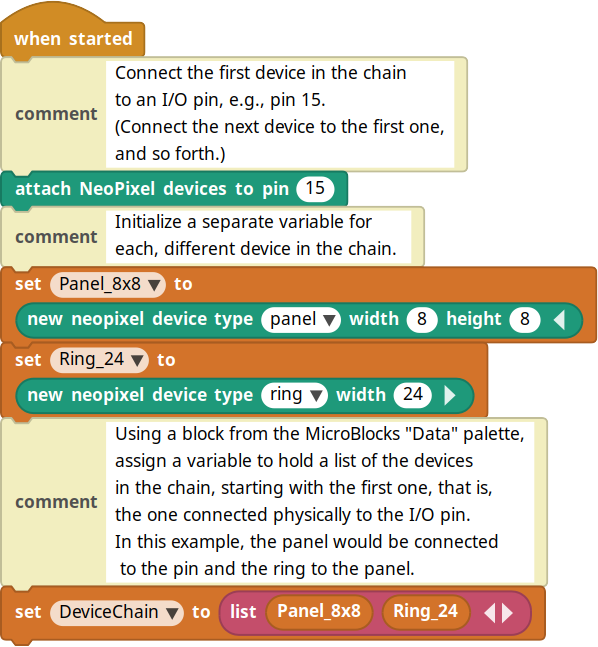
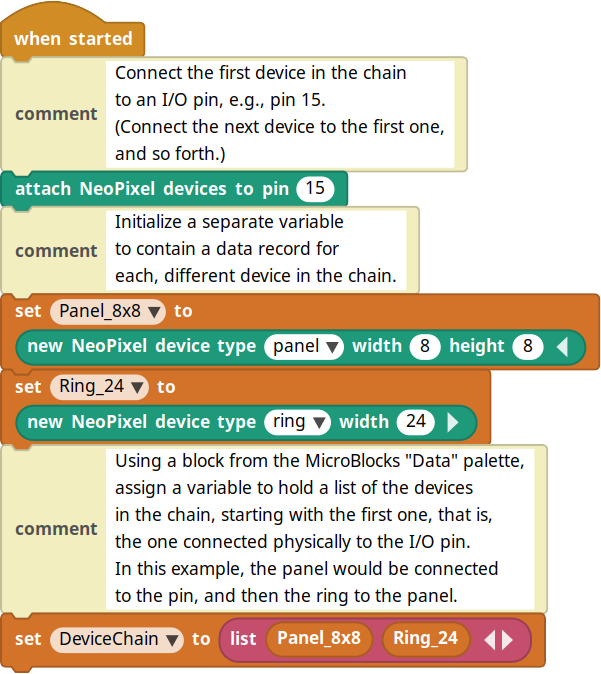
revise images, examples and README for version 4-2

diff --git a/README.md b/README.md
@@ -1,7 +1,7 @@
-# Multiple-Neopixel-Devices-for-MicroBlocks
+# Multiple-NeoPixel-Devices-for-MicroBlocks
 Daisy-chain several NeoPixel devices in series and control each device independently by name.
 
-*How nice would it be to control two or three NeoPixel rings or panels, each independently from the others, using just one microcontroller?*
+*How nice would it be to control two or more NeoPixel rings or panels, each independently from the others, using just one microcontroller?*
 
 [MicroBlocks](https://microblocks.fun/) is a graphical-blocks language for programming microcontrollers. Its creators have played significant roles in developing the [Scratch](https://scratch.mit.edu/) and [Snap!](https://snap.berkeley.edu/) languages at MIT and at Berkeley, respectively. They know how to write a language.
 
@@ -16,34 +16,106 @@ The *NeoPixel* and *NeoPanel* libraries that come included by default with Micro
 
 This project introduces a library that builds upon and extends those libraries to enable connecting and managing multiple NeoPixel devices.
 
+How many devices can be chained together this way? It depends on the number and sizes of the devices and on the available memory in the microcontroller. The example illustrated here, using two devices, was tested with a MakerPort.
+
 ## Contents
 * [Using the Library](#using-the-library)
-* [Programming Concepts](#programming-concepts-of-the-library)
 * [Blocks Reference](#blocks-reference)
 * [Examples](#examples)
+* [Programming Concepts](#programming-concepts-of-the-library)
 
 ## Using the Library
-Download the library onto your computer from this repository. Its name is [NeoPixelDevices_v4-1.ubl](NeoPixelDevices_4-1.ubl).
+
+### Installation
+Download the library onto your computer from this repository. Its name is [NeoPixelDevices_v4-2.ubl](NeoPixelDevices_4-2.ubl).
 
 Launch MicroBlocks, using one of the methods explained on the [web site for the language](https://microblocks.fun).
 
 Follow instructions given on the web site to connect a microcontroller and to install the MicroBlocks firmware onto it.
 
+### Add the Library to a New Program
+
 Start a new program. Look for the *Add Library* link. Click it, choose Computer as the location of the library, navigate to where you stored this library, select it and click, **Open**.
 
-Look to see whether the standard *Neopixel* library also loads, automatically. If it does not, then take a moment to add that one also to your program.
+Look to see whether the standard *NeoPixel* library also loads, automatically. If it does not, then take a moment to add that one also to your program.
 
 At a minimum, you want your **Libraries** palette to include these two graphical objects:
 
 ![image showing two library objects on the screen](block_images/library_palettes.png)
 
-Having those two libraries installed, a typical way to initialize a MicroBlocks program for two or more NeoPixel devices could look like the example shown below as **Listing 1**.
+### First Steps
+
+Having those two libraries installed, a typical way to initialize a MicroBlocks program for a chain of two NeoPixel devices could look like the example shown below as **Listing 1**.
 
 ![Example of a MicroBlocks code listing](block_images/when_started.png)<br>**Listing 1:** Initialization
+
+Look more closely at these instructions. The first green block tells MicroBlocks to transmit signals to the chain of devices through I/O pin number 15.
+
+### Assign Names to Your Devices
+
+Create a variable name for each device in the chain. It is a good idea to choose descriptive names, because it makes the code easier for humans to read and to understand. 
+
+&ldquo;Panel_8x8&rdquo; and &ldquo;Ring_24&rdquo; in **Listing 1**, above, are variable names that would serve well for an 8-by-8 NeoPixel panel and for a 24-NeoPixel ring device, respectively. 
+
+The next, two blocks in **Listing 1** initialize each of the variables to contain a *data record* with distinct information specific to each device. 
+
+For example, the block shown below configures the data record stored in the &ldquo;Panel_8x8&rdquo; variable to work with a NeoPixel panel having eight rows of eight NeoPixels each: 
+
+![image of *set variable* block setting a variable to contain a panel device data record](block_images/set_variable_to_panel.png)
+
+Using named variables to contain different data records for each of the different devices enables a program to access the different devices individually, by name.
+
+In the discussion that follows, the phrase &ldquo;data record&rdquo; will refer to the variable that contains information about a particular NeoPixel device. 
+
+### Make a List of Your Devices
+
+After naming variables to represent the devices and preparing their initial data records, your program will need to create a list representing the entire chain of NeoPixel devices attached to the microcontroller.
+
+In **Listing 1**, a variable named *DeviceChain* is set to contain a list of the data records for the two devices, as follows:
+
+![image of block setting up a list of device data records](block_images/chain_list.png)
+
+The order is important. Notice that the record for *Panel_8x8* comes first. It is worth repeating the reason why, for emphasis.
+
+The first device record in the list should represent the physical device actually connected to the microcontroller. Other blocks in the library depend on things being set up this way. 
+
+For the arrangement shown in this example to work right, that physical 8x8 panel should be the device attached to the controller.
+
+Then the other data records follow in the same order as the devices follow outward from the controller in the physical chain.
+
+### Draw Onto a Named Device 
+
+All of the blocks for manipulating NeoPixels on a device take the corresponding variable name for the device as one of their inputs. 
+
+Using the name allows a program to change NeoPixels on one device without affecting the others.
+
+For example, building upon the initialization shown in **Listing 1**, draw a solid, green square in the center of the 8x8 NeoPixel panel.
+
+![image of a MicroBlocks code block for drawing a rectangle](block_images/example_rectangle.png)
+
+You can draw many times into a device without immediately affecting its visual presentation.
+
+Delaying the display empowers a program to prepare complex visual presentations without having each drawing step appear right away.
+
+### Display New Drawing Whenever You Choose
+
+When the program is ready to display changes, a single block updates all of devices in the chain by working through the list of device data records. For example, display the devices in the *DeviceChain* list:
+
+![image of a MicroBlocks program block to display the chain of devices](block_images/example_display.png)
 
 [back to Contents](#contents)
 
 ## Programming Concepts of the Library
+This part explains how the *NeoPixelDevices* library works. You can skip over it if you just want to play with the blocks. Come back later to learn more.
+
+But wait.
+
+Before you go, there is one thing you should know about those data records. Each record keeps track of several, different pieces of information about a NeoPixel device. The discussion that follows will refer to each of those pieces of information as a *field*. 
+
+For example, the number of NeoPixels in one &ldquo;row&rdquo; on a panel is stored in a field named *width*. The number of &ldquo;rows&rdquo; is kept in a field named *height*. If the device is a ring or a strand of NeoPixels, then it has only one &ldquo;row&rdquo;, and the *height* field would be set to 1 by default. 
+
+OK, you can safely [skip ahead to the blocks reference](#blocks-reference) now, if you wish.
+
 The *NeoPixelDevices* library takes advantage of how easy it is to use Lists in MicroBlocks.
 
 The List data type in MicroBlocks can contain an arbitrary (and changeable) number of data items, and the data items can be any of the types supported by MicroBlocks, including:
@@ -60,61 +132,15 @@ Each physical NeoPixel device is represented in this library by a list of five d
 4. a Boolean "lock" flag that can come in handy during concurrent processing, and finally 
 5. a list serving as a buffer to hold each and all of the individual NeoPixel color values for the WS2811 LEDs on the device.
 
-Importantly, keeping all five of these data items, or *fields*, together in a single list makes it possible to assign them as a group to a single, named variable. 
+Importantly, keeping all five of these data items, or *fields*, together in a single list makes it possible to assign them as a group, as a *data record* to be stored in a single, named variable. 
 
-In this way, a program is able to refer to the devices by name. It is similar to the concept of a *struct* or a *record* in some other languages, though not quite.
+Behind the scenes, the *NeoPixelDevices* library maintains a list of names for these different fields. It uses this list to figure out how to look up a value in a device data record by name. 
 
-The library provides a *new neopixel device* block which takes care of setting up all five of the *fields* in one of these device data lists.
+In this way, a program is able to use names for everything.  It can refer &mdash; by name &mdash; both to the devices and to the different fields of data for each device. It is similar to the concept of a *struct* or a *record* in some other languages, though not quite.
 
-Combining that block with the standard, built-in *set* block of MicroBlocks, the device data list can be stored in a named variable. 
+The library provides a *new NeoPixel device* block which takes care of setting up all five of the *fields* in one of these device data lists.
 
-**Listing 1** displays two examples of setting a named variable to contain a device data list. Here is another look at one of those instructions.
-
-![image of *set variable* block setting a variable to contain a panel device data record](block_images/set_variable_to_panel.png)
-
-The library enables a program to access these different data &ldquo;fields&rdquo; by name. 
-
-Staying with the **Listing 1** program example, a subroutine could initialize a local variable and set its value to the number of pixels on the NeoPixel ring named *Ring_24* this way:
-
-![image of a MicroBlocks program block](block_images/get_width.png)
-
-Remember that a MicroBlocks List can contain other lists as its data items. Using that convenient feature, the program can create a list representing the entire chain of NeoPixel devices attached to the microcontroller.
-
-In **Listing 1**, a variable named *DeviceChain* is set to contain a list of the data records for two devices. 
-
-Look at the block again,
-
-![image of block setting up a list of device data records](block_images/chain_list.png)
-
-The order is important. Notice that the record for *Panel_8x8* comes first. It is worth repeating the reason why, for emphasis.
-
-The first device record in the list should represent the physical device actually connected to the microcontroller. Other blocks in the library depend on things being set up this way. 
-
-For the arrangement shown in this example to work right, that physical 8x8 panel should be the device attached to the controller.
-
-Then the other data records follow in the same order as the devices follow outward from the controller in the physical chain.
-
----
-
-All of the blocks for manipulating NeoPixels on a device take the device record as one of their inputs. 
-
-Having a separate data record for each device in a chain makes it possible to draw on one device without affecting the others.
-
-For example, building upon the initialization shown in **Listing 1**, draw a solid, green square in the center of the 8x8 NeoPixel panel.
-
-![image of a MicroBlocks code block for drawing a rectangle](block_images/example_rectangle.png)
-
-You can draw many times into a device without affecting its visual presentation. 
-
-Most of these *NeoPixelDevices* blocks serve to prepare a device for viewing but do not display it. There is a good reason.
-
-Delaying the display empowers a program to prepare complex visual presentations without having each drawing step appear immediately.
-
-When the devices are ready for display, a single block updates all of them by working through the list of device data records. For example, display the devices in the *DeviceChain* list:
-
-![image of a MicroBlocks program block to display the chain of devices](block_images/example_display.png)
-
-[back to Contents](#contents)
+Combining that block with the standard, built-in *set* block of MicroBlocks, the device data record becomes stored in a named variable. 
 
 ## Blocks Reference
 The blocks are listed in the Palette area of the MicroBlocks editing window. 
@@ -181,7 +207,7 @@ This block is typically used to erase previous drawing instructions from the dev
 
 ---
 
-![image of *set neopixel* block](block_images/set_neopixel.png)
+![image of *set NeoPixel* block](block_images/set_neopixel.png)
 
 Sets the specified NeoPixel number to the given color. The block is mostly useful for one-dimensional ring-shaped devices and for strings of NeoPixels.
 
@@ -356,6 +382,10 @@ Comments in the programs provide some documentation about what is going on.
 
 Closer study of the code is left as an exercise for the reader.
 
+The reader may notice that the names given to the variables holding data records for the devices are slightly different from one example to the next. This variation was done on purpose for the following reason.
+
+While the names aim to be *descriptive* for the devices in each example, it is important to recognize that there is no magic in the name of the variable. The *NeoPixelDevices* library takes no information from the name of a variable. It looks only at the information that is written into the fields of the data record stored in the variable.
+
 I expect to write more about the examples. Please consider checking back here from time to time.
 
-[back to top](#multiple-neopixel-devices-for-microblocks)
+[back to top](#multiple-NeoPixel-devices-for-microblocks)
